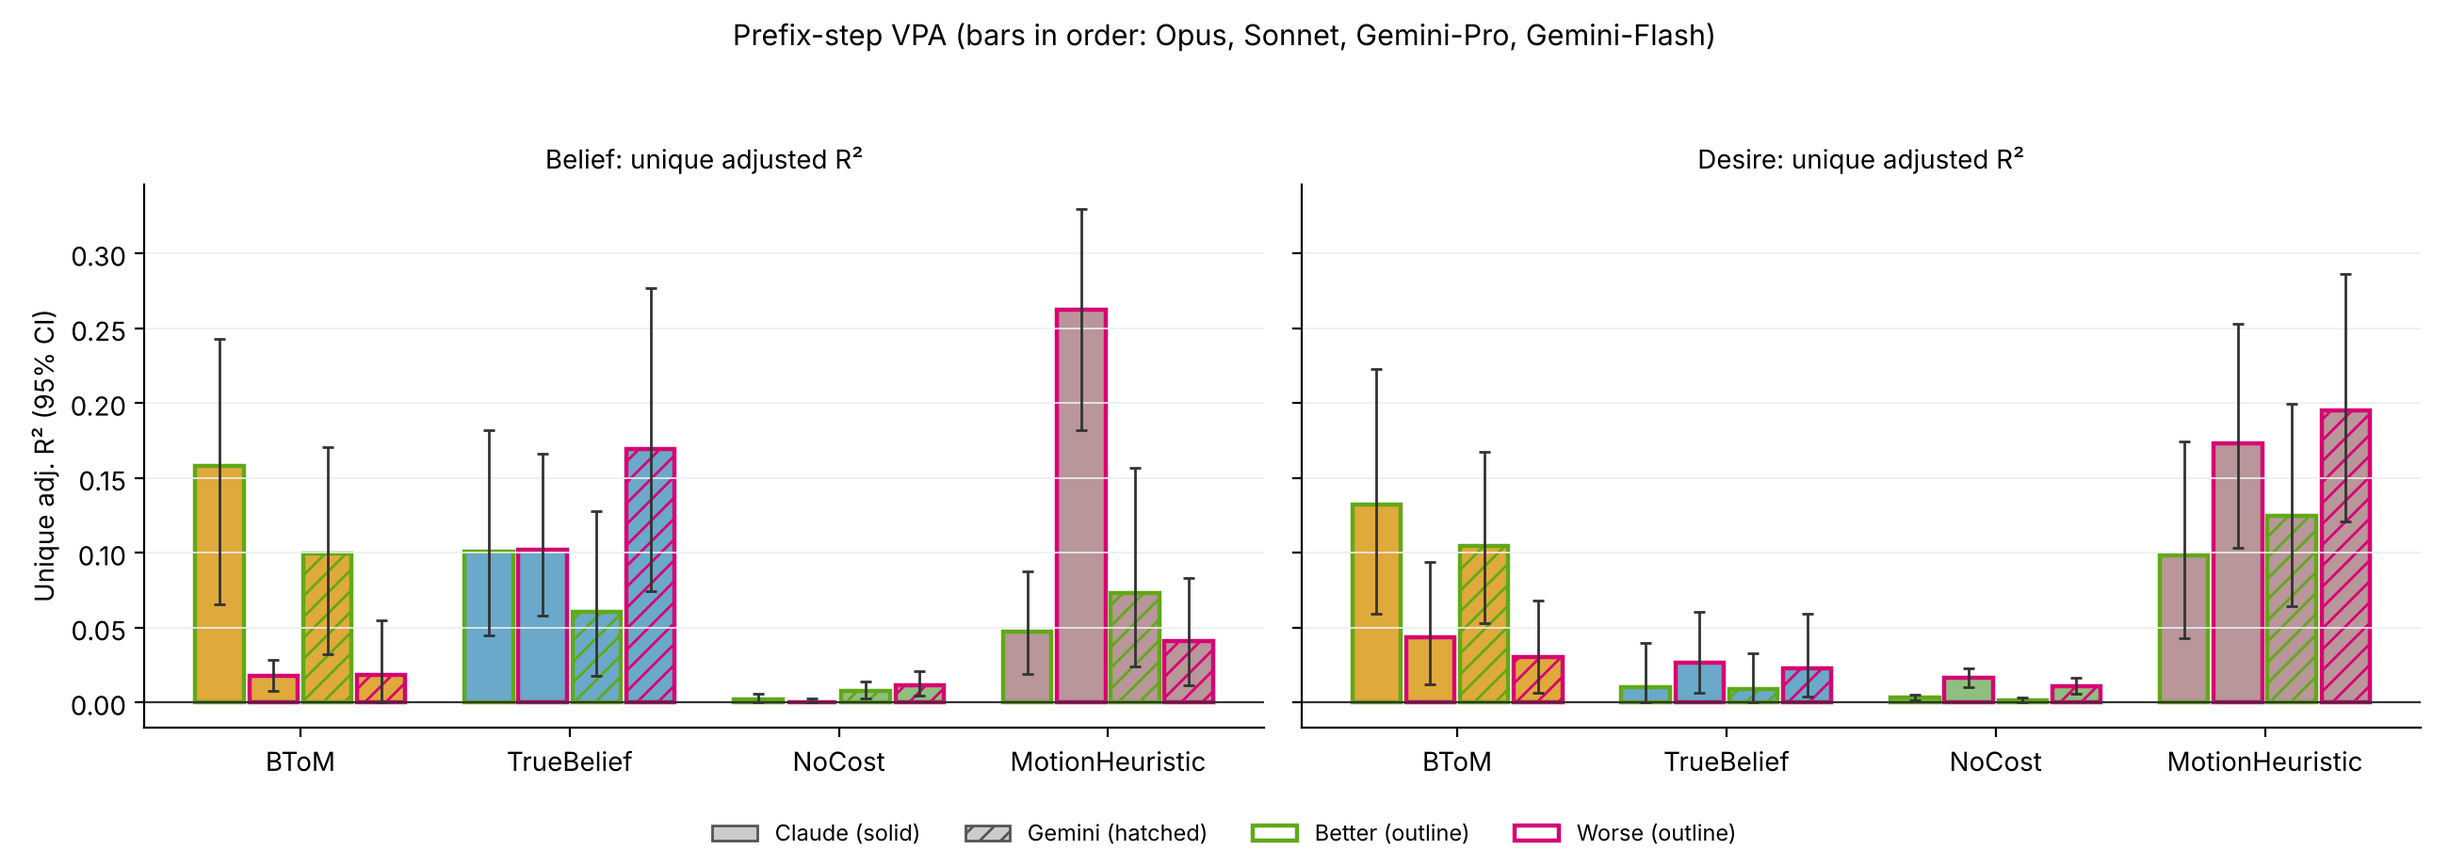
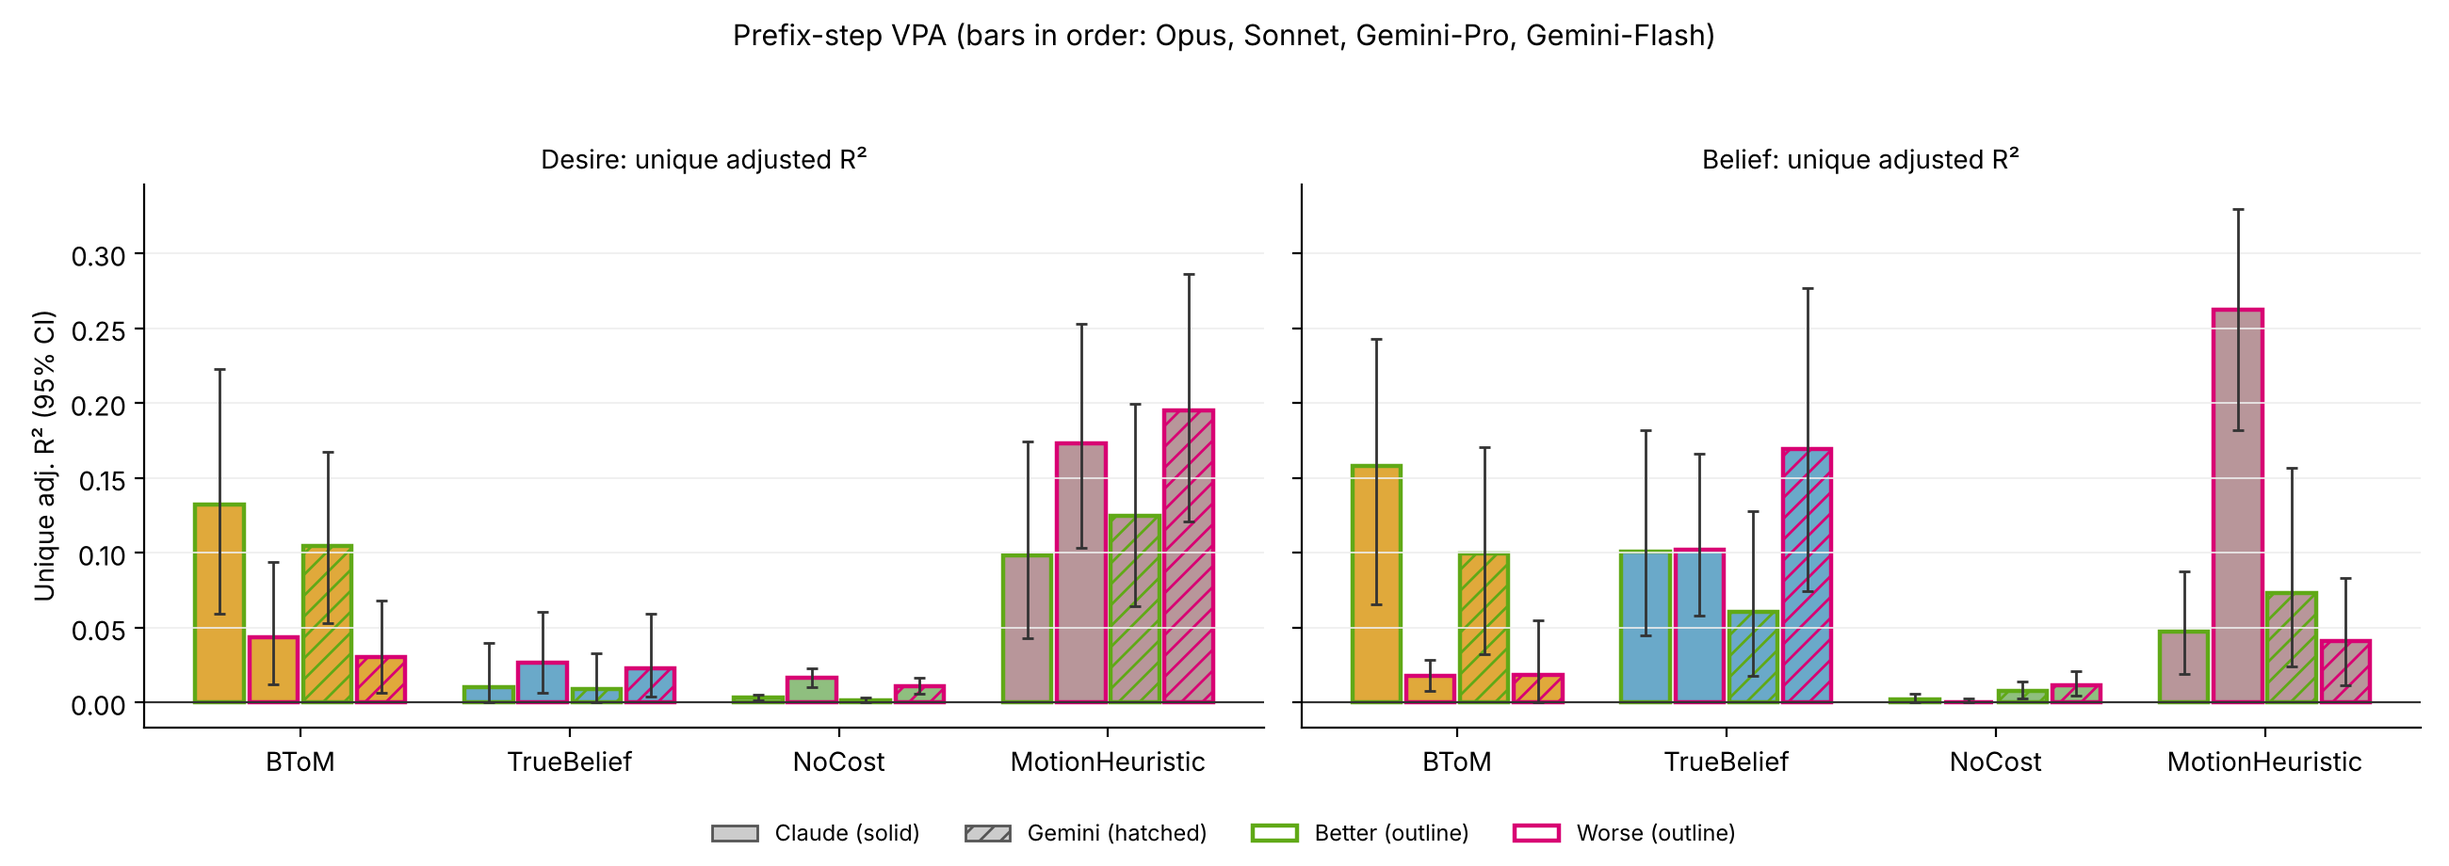
2x2 figures: desire-first order, summary layout, Check-GoBack trajectory figure
- prefix_2x2: desire before belief; summary with row/column headers, larger dots,
  update column moved to a separate _with_update variant
- plot_group_2x2.py: one group (default Check-GoBack Present), rows BToM / Claude / Gemini,
  Better (solid) vs Worse (dashed), key-option gap fill, half-max divergence onset,
  step-to-step update r vs BToM side panel

Claude-Session: https://claude.ai/code/session_01QAKBEtsvJW6UqNEF9rWiR3

diff --git a/analysis/plot_group_2x2.py b/analysis/plot_group_2x2.py
@@ -1,0 +1,302 @@
+"""
+대표 그룹(기본 Check-GoBack Present) 하나의 단계별 궤적: BToM / Claude 계열 / Gemini 계열 (Figure 5a 대체안).
+
+레이아웃
+  열: Desire 궤적 | Belief 궤적 | (오른쪽 작은 패널) 스텝 간 갱신(update)의 BToM 일치도
+  행: BToM | Claude (Better 실선 vs Worse 점선) | Gemini (Better 실선 vs Worse 점선)
+궤적 패널
+  - phase 평균 (그 그룹 시나리오 평균; belief는 실행 평균 후 확률 정규화)
+  - 핵심 옵션(key option): 마지막 3개 phase에서 |Better − Worse|가 가장 큰 옵션 (두 계열 평균, --key로 지정 가능)
+    -> 진하게 그리고, Better와 Worse 사이를 옵션 색으로 채움 + 회색 점선 = 그 옵션의 BToM. 나머지 옵션은 옅게
+  - 분기 시점(diverges, half-max 기준): 핵심 옵션의 (Better − Worse) 차이가 그 phase부터 마지막 phase까지
+    (a) 최대 차이와 같은 부호, (b) 최대 차이의 절반 이상, (c) 시나리오 bootstrap 95% CI가 0을 포함하지 않음
+    을 모두 만족하는 첫 phase (Start 제외). 시나리오 간 변동이 작아 CI만으로는 아주 작은 차이도 유의해지므로
+    효과 크기 조건(a, b)을 함께 씀. 그 지점부터 배경을 옅게 칠함
+update 패널
+  - Δ_t = 판단_t − 판단_{t−1} (같은 시나리오 안)과 BToM의 Δ의 Pearson r (옵션 3개 pooled), 시나리오 bootstrap 95% CI
+  - prefix_2x2.py의 update_r과 같은 정의 (여기서는 이 그룹 시나리오만)
+
+사용 예)
+  python analysis/plot_group_2x2.py --group 1 --out results/stats/prefix_2x2/group1_trajectory_2x2.png \\
+     --runs "Opus|Claude|better|results/claude-opus-4-6/vanilla/prefixstep" \\
+            "Sonnet|Claude|worse|results/claude-sonnet-4-6/vanilla/prefixstep" \\
+            "Gemini-Pro|Gemini|better|results/gemini-2.5-pro/vanilla/prefixstep" \\
+            "Gemini-Flash|Gemini|worse|results/gemini-2.5-flash/vanilla/prefixstep"
+"""
+import os
+import sys
+import argparse
+import warnings
+import numpy as np
+import pandas as pd
+import matplotlib
+matplotlib.use("Agg")
+import matplotlib.pyplot as plt
+import matplotlib.lines as mlines
+import matplotlib.patches as mpatches
+from matplotlib.gridspec import GridSpec
+
+ROOT = os.path.dirname(os.path.dirname(os.path.abspath(__file__)))
+for p in (ROOT, os.path.join(ROOT, "src"), os.path.join(ROOT, "analysis")):
+    if p not in sys.path:
+        sys.path.insert(0, p)
+warnings.filterwarnings("ignore")
+
+from analysis.plot_stepwise_phase import load_run, prepare_run, SCORES, GROUP_TITLES
+from analysis.phase_utils import get_group_phase_labels
+from src.prepare_everystep import load_reference_everystep
+
+C_BETTER, C_WORSE = "#60A917", "#D80073"
+DIMS = ("desire", "belief")
+
+
+def per_scenario_phase(m, col):
+    """시나리오 x phase 평균 표 (phase_means와 같은 1단계 집계)."""
+    return m.groupby(["scenario_id", "phase_idx"])[col].mean().unstack("phase_idx")
+
+
+def diff_ci(mb, mw, col, n_boot, rng):
+    """phase별 (Better − Worse) 평균과 시나리오 bootstrap 95% CI."""
+    d = per_scenario_phase(mb, col) - per_scenario_phase(mw, col)
+    v = d.to_numpy()
+    idx = rng.integers(0, len(v), size=(n_boot, len(v)))
+    boots = np.nanmean(v[idx], axis=1)
+    lo, hi = np.nanpercentile(boots, [2.5, 97.5], axis=0)
+    return pd.DataFrame({"diff": np.nanmean(v, axis=0), "lo": lo, "hi": hi}, index=d.columns)
+
+
+def sustained_onset(dci, frac=0.5):
+    """최대 차이와 같은 부호 + 최대 차이의 frac 이상 + CI가 0 제외, 이 상태가 끝까지 이어지는 첫 phase (Start 제외)."""
+    d = dci["diff"].to_numpy()
+    peak = d[np.nanargmax(np.abs(d))]
+    sig = (((dci["lo"] > 0) | (dci["hi"] < 0)).to_numpy() & (np.sign(d) == np.sign(peak))
+           & (np.abs(d) >= frac * abs(peak)))
+    phases = dci.index.values
+    onset = None
+    for i in range(len(phases) - 1, -1, -1):
+        if sig[i] and phases[i] > 0:
+            onset = phases[i]
+        else:
+            break
+    return onset
+
+
+def update_r(m, score, n_boot, rng):
+    """Δ(LLM) vs Δ(BToM) Pearson r, 옵션 pooled, 시나리오 bootstrap 95% CI."""
+    cfg = SCORES[score]
+    cols = [f"{cfg['prefix']}_{o}" for o in cfg["options"]]
+    m = m.sort_values(["scenario_id", "time_step"])
+    per = []
+    for sid, g in m.groupby("scenario_id"):
+        dy = np.diff(g[cols].to_numpy(), axis=0).ravel()
+        db = np.diff(g[[f"btom__{c}" for c in cols]].to_numpy(), axis=0).ravel()
+        per.append((dy, db))
+
+    def r_of(sel):
+        y = np.concatenate([per[i][0] for i in sel])
+        b = np.concatenate([per[i][1] for i in sel])
+        return np.corrcoef(y, b)[0, 1]
+    est = r_of(range(len(per)))
+    boots = [r_of(rng.integers(0, len(per), len(per))) for _ in range(n_boot)]
+    lo, hi = np.nanpercentile(boots, [2.5, 97.5])
+    return est, lo, hi
+
+
+def place_labels(ax, items, x, gap):
+    """items: [(y, text, kwargs)] -> 세로로 최소 gap만큼 띄워 x 위치에 라벨."""
+    items = sorted(items, key=lambda t: t[0])
+    ys = [t[0] for t in items]
+    for i in range(1, len(ys)):
+        ys[i] = max(ys[i], ys[i - 1] + gap)
+    for (y0, text, kw), y in zip(items, ys):
+        ax.text(x, y, text, va="center", fontsize=8.5, **kw)
+
+
+def phase_mean(m, col):
+    out = per_scenario_phase(m, col).mean(axis=0)
+    return out.index.values + 0.5, out.values
+
+
+def main():
+    ap = argparse.ArgumentParser()
+    ap.add_argument("--runs", nargs="+", required=True, help='"label|family|better/worse|path"')
+    ap.add_argument("--group", type=int, default=1)
+    ap.add_argument("--key", default=None, help="핵심 옵션, 예: desire:M,belief:M (기본: 자동)")
+    ap.add_argument("--n_boot", type=int, default=2000)
+    ap.add_argument("--seed", type=int, default=0)
+    ap.add_argument("--out", required=True)
+    args = ap.parse_args()
+    rng = np.random.default_rng(args.seed)
+
+    refs = {"btom": load_reference_everystep("btom")}
+    fams = {}
+    data = {}
+    for spec in args.runs:
+        lab, fam, tier, path = spec.split("|")
+        fams.setdefault(fam, {})[tier] = lab
+        df, n = load_run(path)
+        data[lab] = {score: prepare_run(df, score, refs) for score in DIMS}
+        data[lab]["n"] = n
+        for score in DIMS:
+            data[lab][score] = data[lab][score][data[lab][score]["group_id"] == args.group]
+
+    gid = args.group
+    key = {}
+    if args.key:
+        key = dict(kv.split(":") for kv in args.key.split(","))
+    for score in DIMS:
+        if score in key:
+            continue
+        cfg = SCORES[score]
+        sc = {}
+        for o in cfg["options"]:
+            col = f"{cfg['prefix']}_{o}"
+            vals = []
+            for f in fams:
+                d = (per_scenario_phase(data[fams[f]["better"]][score], col)
+                     - per_scenario_phase(data[fams[f]["worse"]][score], col)).mean(axis=0)
+                vals.append(np.abs(d.values[-3:]).mean())
+            sc[o] = np.mean(vals)
+        key[score] = max(sc, key=sc.get)
+    print(f"  key options: {key}")
+    onsets = {}
+    labels_x = get_group_phase_labels(gid)
+    any_lab = next(iter(data))
+    n_sc = data[any_lab]["desire"]["scenario_id"].nunique()
+    fam_names = list(fams)
+
+    fig = plt.figure(figsize=(14.5, 3.0 * (1 + len(fam_names)) + 0.9))
+    gs = GridSpec(1 + len(fam_names), 3, figure=fig, width_ratios=[1, 1, 0.42], wspace=0.22, hspace=0.32)
+    rows = ["BToM"] + fam_names
+    upd = {}
+    for r, rname in enumerate(rows):
+        for c, score in enumerate(DIMS):
+            cfg = SCORES[score]
+            ax = fig.add_subplot(gs[r, c])
+            gap = 0.06 if score == "belief" else 0.4
+            if r == 0:
+                m = data[any_lab][score]
+                items = []
+                for o in cfg["options"]:
+                    col = f"btom__{cfg['prefix']}_{o}"
+                    x, y = phase_mean(m, col)
+                    ax.plot(x, y, color=cfg["colors"][o], lw=2.6, marker="o", ms=5, mec="white", mew=1, zorder=3)
+                    items.append((y[-1], cfg["names"][o], {"color": "#333333"}))
+                place_labels(ax, items, x[-1] + 0.15, gap)
+            else:
+                lb, lw_ = fams[rname]["better"], fams[rname]["worse"]
+                mb, mw = data[lb][score], data[lw_][score]
+                kcol = f"{cfg['prefix']}_{key[score]}"
+                dci = diff_ci(mb, mw, kcol, args.n_boot, rng)
+                onset = sustained_onset(dci)
+                onsets[(rname, score)] = (onset, dci)
+                if onset is not None:
+                    ax.axvspan(onset, max(labels_x) + 1, color="#F1F1F1", zorder=0, lw=0)
+                    ax.axvline(onset, color="#555555", lw=1.0, zorder=1)
+                    ax.text(onset + 0.06, 0.97, f"{cfg['names'][key[score]]} diverges", transform=ax.get_xaxis_transform(),
+                            ha="left", va="top", fontsize=8.5, color="#333333", style="italic")
+                for o in cfg["options"]:
+                    col = f"{cfg['prefix']}_{o}"
+                    color = cfg["colors"][o]
+                    is_key = o == key[score]
+                    a = 1.0 if is_key else 0.32
+                    xb, yb = phase_mean(mb, col)
+                    xw, yw = phase_mean(mw, col)
+                    if is_key:
+                        xr, yr = phase_mean(mb, f"btom__{col}")
+                        ax.plot(xr, yr, color="#777777", lw=1.4, ls=(0, (3, 2)), zorder=2)
+                        ax.fill_between(xb, yb, yw, color=color, alpha=0.22, lw=0, zorder=1)
+                    ax.plot(xb, yb, color=color, lw=2.8 if is_key else 1.8, marker="o", ms=5.5 if is_key else 4,
+                            mec="white", mew=1, alpha=a, zorder=4 if is_key else 3)
+                    ax.plot(xw, yw, color=color, lw=2.0 if is_key else 1.4, ls=(0, (4, 1.6)), marker="o",
+                            ms=5 if is_key else 3.5, mfc="white", mec=color, mew=1.2, alpha=a, zorder=4 if is_key else 3)
+                    if is_key:
+                        place_labels(ax, [(yb[-1], f"{cfg['names'][o]} ({lb.replace('Gemini-', '')})", {"color": "#222222", "fontweight": "bold"}),
+                                          (yw[-1], f"{cfg['names'][o]} ({lw_.replace('Gemini-', '')})", {"color": "#222222"})],
+                                     xb[-1] + 0.15, gap)
+                upd[(rname, score)] = {t: update_r(data[fams[rname][t]][score], score, args.n_boot, rng)
+                                       for t in ("better", "worse")}
+            for k in labels_x:
+                ax.axvline(k, color="#CCCCCC", ls="--", lw=0.6, zorder=0)
+            ax.set_xticks([k + 0.5 for k in labels_x])
+            ax.set_xlim(0, max(labels_x) + 2.3)
+            ax.set_ylim(*cfg["ylim"])
+            if score == "desire":
+                ax.set_yticks(range(1, 8))
+            if r == len(rows) - 1:
+                ax.set_xticklabels([labels_x[k] for k in labels_x], rotation=30, ha="right", fontsize=9)
+            else:
+                ax.set_xticklabels([])
+            ax.set_ylabel({"desire": "Desire (1–7)", "belief": "Belief (probability)"}[score], fontsize=9.5)
+            ax.grid(axis="y", color="#F0F0F0", lw=0.6)
+            for s in ("top", "right"):
+                ax.spines[s].set_visible(False)
+            if r == 0:
+                ax.set_title(score.capitalize(), fontsize=14, fontweight="bold", pad=16)
+            if c == 0:
+                sub = "" if r == 0 else f"\n{fams[rname]['better']} vs {fams[rname]['worse']}"
+                ax.annotate(rname + sub, xy=(0, 0.5), xycoords="axes fraction", xytext=(-48, 0),
+                            textcoords="offset points", ha="right", va="center", fontsize=12.5,
+                            fontweight="bold", linespacing=1.4)
+
+        # 오른쪽 update 패널
+        ax = fig.add_subplot(gs[r, 2])
+        if r == 0:
+            ax.axis("off")
+            h = [mlines.Line2D([], [], color="#444444", lw=2.6, marker="o", ms=5, label="Better (solid)"),
+                 mlines.Line2D([], [], color="#444444", lw=1.9, ls=(0, (4, 1.6)), marker="o", ms=4.5, mfc="white",
+                               label="Worse (dashed)"),
+                 mlines.Line2D([], [], color="#777777", lw=1.4, ls=(0, (3, 2)), label="BToM (key option)"),
+                 mpatches.Patch(color="#999999", alpha=0.3, label="Better − Worse gap (key option)"),
+                 mpatches.Patch(color="#F1F1F1", ec="#555555", lw=0.8,
+                                label="Divergence onset: gap ≥ ½ of its max,\nsame sign, 95% CI excl. 0, to the end")]
+            ax.legend(handles=h, loc="center left", frameon=False, fontsize=9, borderaxespad=0)
+            continue
+        for j, score in enumerate(DIMS):
+            for tier, dx in (("better", -0.13), ("worse", 0.13)):
+                est, lo, hi = upd[(rname, score)][tier]
+                col = C_BETTER if tier == "better" else C_WORSE
+                ax.errorbar(j + dx, est, yerr=[[est - lo], [hi - est]], fmt="o", color=col, ms=8, capsize=3,
+                            lw=1.8, mec="white", mew=1, zorder=3)
+                ax.text(j + dx + (0.08 if tier == "worse" else -0.08), est, f"{est:.2f}", fontsize=8,
+                        ha="left" if tier == "worse" else "right", va="center", color="#333333")
+        ax.axhline(0, color="#333333", lw=0.8)
+        ax.set_xticks([0, 1])
+        ax.set_xticklabels(["Desire", "Belief"], fontsize=9.5)
+        ax.set_xlim(-0.6, 1.6)
+        ax.set_ylim(-0.25, 1.0)
+        ax.set_ylabel("Update r vs BToM", fontsize=9)
+        ax.tick_params(axis="y", labelsize=8.5)
+        ax.grid(axis="y", color="#F0F0F0", lw=0.6)
+        for s in ("top", "right"):
+            ax.spines[s].set_visible(False)
+        if r == 1:
+            ax.set_title("Step-to-step update\n(Δ LLM vs Δ BToM)", fontsize=10.5, fontweight="bold", pad=8)
+        ax.legend(handles=[mlines.Line2D([], [], color=C_BETTER, marker="o", ls="None", label=fams[rname]["better"]),
+                           mlines.Line2D([], [], color=C_WORSE, marker="o", ls="None", label=fams[rname]["worse"])],
+                  loc="upper right", fontsize=7.8, frameon=False, handletextpad=0.2)
+
+    fig.suptitle(f"{GROUP_TITLES.get(gid, f'Group {gid}')}: Prefix-step judgments by phase "
+                 f"(n = {n_sc} scenarios, 5 runs each)", fontsize=12.5, y=0.995)
+    os.makedirs(os.path.dirname(os.path.abspath(args.out)), exist_ok=True)
+    fig.savefig(args.out, dpi=220, bbox_inches="tight")
+    plt.close(fig)
+    print(f"✅ saved: {args.out}")
+    rec = [dict(family=f, dimension=s, tier=t, update_r=v[0], ci_low=v[1], ci_high=v[2])
+           for (f, s), d in upd.items() for t, v in d.items()]
+    out_csv = os.path.splitext(args.out)[0] + "_update.csv"
+    pd.DataFrame(rec).to_csv(out_csv, index=False)
+    print(pd.DataFrame(rec).round(2).to_string(index=False))
+    drec = []
+    for (f, sc), (on, dci) in onsets.items():
+        for ph, row in dci.iterrows():
+            drec.append(dict(family=f, dimension=sc, key_option=key[sc], phase=labels_x.get(int(ph), ph),
+                             better_minus_worse=row["diff"], ci_low=row["lo"], ci_high=row["hi"],
+                             onset=labels_x.get(int(on)) if on is not None else None))
+    ddf = pd.DataFrame(drec)
+    ddf.to_csv(os.path.splitext(args.out)[0] + "_divergence.csv", index=False)
+    print(ddf.round(2).to_string(index=False))
+
+
+if __name__ == "__main__":
+    main()

diff --git a/analysis/prefix_2x2.py b/analysis/prefix_2x2.py
@@ -235,45 +235,60 @@ def main():
     ctab.to_csv(os.path.join(args.out_dir, "prefix_2x2_contrasts_table.csv"))
 
     plot_summary(per_model, models, os.path.join(args.out_dir, "prefix_2x2_summary.png"))
+    plot_summary(per_model, models, os.path.join(args.out_dir, "prefix_2x2_summary_with_update.png"), with_update=True)
     plot_vpa(per_model, models, os.path.join(args.out_dir, "prefix_2x2_vpa.png"))
 
 
-def _dot_panel(ax, per_model, models, metric, title, ylim=None):
+def _dot_panel(ax, per_model, models, metric, ylim=None):
     fams = list(dict.fromkeys(f for _, f, _ in models))
     for i, f in enumerate(fams):
-        for tier, dx in (("better", -0.12), ("worse", 0.12)):
+        for tier, dx in (("better", -0.15), ("worse", 0.15)):
             lab = [m for m, ff, t in models if ff == f and t == tier][0]
             r = per_model[(per_model.model == lab) & (per_model.metric == metric)].iloc[0]
             c = C_BETTER if tier == "better" else C_WORSE
             ax.errorbar(i + dx, r.value, yerr=[[r.value - r.ci_low], [r.ci_high - r.value]], fmt="o", color=c,
-                        ms=7, capsize=3, lw=1.5, mec="white", mew=0.8)
-            ax.text(i + dx + 0.06, r.value, lab, fontsize=7.5, va="center", color="#444444")
+                        ms=10, capsize=4, lw=2, mec="white", mew=1.2, zorder=3)
+            ax.text(i + dx + (0.09 if tier == "worse" else -0.09), r.value, f"{r.value:.2f}", fontsize=9,
+                    va="center", ha="left" if tier == "worse" else "right", color="#333333")
     ax.set_xticks(range(len(fams)))
-    ax.set_xticklabels(fams)
-    ax.set_xlim(-0.5, len(fams) - 0.3)
+    ax.set_xticklabels(fams, fontsize=11)
+    ax.set_xlim(-0.55, len(fams) - 0.4)
     if ylim:
         ax.set_ylim(*ylim)
-    ax.set_title(title, fontsize=10)
-    ax.grid(axis="y", color="#EEEEEE", lw=0.6)
+    ax.tick_params(axis="y", labelsize=9.5)
+    ax.grid(axis="y", color="#EEEEEE", lw=0.7, zorder=0)
     for s in ("top", "right"):
         ax.spines[s].set_visible(False)
 
 
-def plot_summary(per_model, models, out):
-    panels = [("final_human_r", "Final step vs Human"), ("level_r", "Step-wise vs BToM (level)"),
-              ("rm_r", "Within-trajectory vs BToM"), ("update_r", "Step-to-step update vs BToM")]
-    fig, axes = plt.subplots(2, 4, figsize=(15, 7), sharey="row")
-    for r, score in enumerate(("belief", "desire")):
-        for c, (k, t) in enumerate(panels):
-            _dot_panel(axes[r, c], per_model, models, f"{score}_{k}", f"{score.capitalize()}: {t}", (0, 1))
-        axes[r, 0].set_ylabel("Pearson r (95% CI)")
+SUMMARY_COLS = [("final_human_r", "Final step\nvs Human"), ("level_r", "Step-wise\nvs BToM"),
+                ("rm_r", "Within-trajectory\nvs BToM")]
+UPDATE_COL = ("update_r", "Step-to-step update\nvs BToM")
+
+
+def plot_summary(per_model, models, out, with_update=False):
+    cols = SUMMARY_COLS + ([UPDATE_COL] if with_update else [])
+    nc = len(cols)
+    fig, axes = plt.subplots(2, nc, figsize=(2.9 * nc + 1.0, 5.6), sharey=True, squeeze=False)
+    for r, score in enumerate(("desire", "belief")):          # desire 먼저 (논문 순서)
+        for c, (k, t) in enumerate(cols):
+            ax = axes[r, c]
+            _dot_panel(ax, per_model, models, f"{score}_{k}", (0, 1))
+            if r == 0:
+                ax.set_title(t, fontsize=12.5, fontweight="bold", pad=10)
+            if r == 0:
+                ax.set_xticklabels([])
+        axes[r, 0].set_ylabel("Pearson r (95% CI)", fontsize=10)
+        axes[r, 0].annotate(score.capitalize(), xy=(0, 0.5), xycoords="axes fraction", xytext=(-62, 0),
+                            textcoords="offset points", ha="right", va="center", rotation=90,
+                            fontsize=15, fontweight="bold")
     import matplotlib.lines as mlines
-    h = [mlines.Line2D([], [], color=C_BETTER, marker="o", ls="None", label="Better"),
-         mlines.Line2D([], [], color=C_WORSE, marker="o", ls="None", label="Worse")]
-    fig.legend(handles=h, loc="lower center", ncol=2, frameon=False)
-    fig.suptitle("Prefix-step 2x2: family x capability (scenario bootstrap, 73 scenarios)", fontsize=12)
-    fig.tight_layout(rect=(0, 0.04, 1, 0.96))
-    fig.savefig(out, dpi=200)
+    tl = {t: ", ".join(m for m, _, tt in models if tt == t) for t in ("better", "worse")}
+    h = [mlines.Line2D([], [], color=C_BETTER, marker="o", ms=9, ls="None", label=f"Better ({tl['better']})"),
+         mlines.Line2D([], [], color=C_WORSE, marker="o", ms=9, ls="None", label=f"Worse ({tl['worse']})")]
+    fig.legend(handles=h, loc="lower center", ncol=2, frameon=False, fontsize=10.5)
+    fig.tight_layout(rect=(0.03, 0.06, 1, 1), h_pad=1.2, w_pad=1.0)
+    fig.savefig(out, dpi=220)
     plt.close(fig)
     print(f"✅ saved: {out}")
 
@@ -283,7 +298,7 @@ def plot_vpa(per_model, models, out):
     labs = [m[0] for m in models]
     fig, axes = plt.subplots(1, 2, figsize=(13, 4.6), sharey=True)
     w = 0.2
-    for ax, score in zip(axes, ("belief", "desire")):
+    for ax, score in zip(axes, ("desire", "belief")):          # desire 먼저 (논문 순서)
         for j, r in enumerate(REFS):
             for i, lab in enumerate(labs):
                 row = per_model[(per_model.model == lab) & (per_model.metric == f"{score}_vpa_unique_{r}")]
